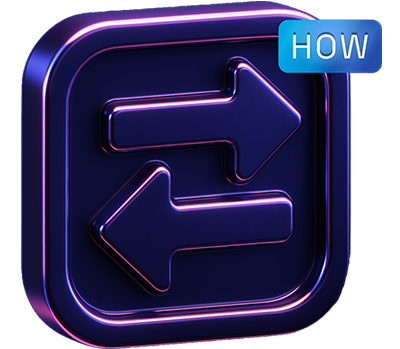
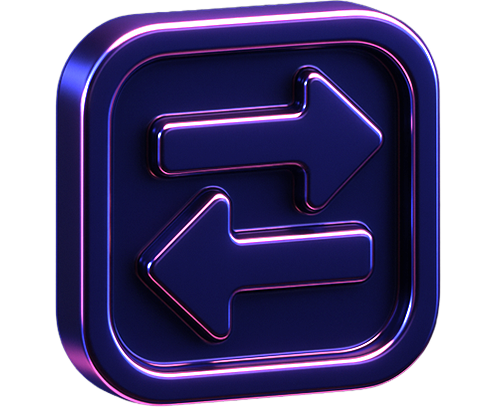
[e.cash] Improve what we do section images
Summary:
On the homepage, in the second section (+what we do}. The images have a little blue tag with a word over them. The tag was part of the image but this was causing some crunchiness on the text, and some mis-alignment between them.

Opting to instead create the tag with css so they can be vertically aligned, and the text will be more clear.

before
{F18181817}
after
{F18181816}

Test Plan: preview and check

Reviewers: #bitcoin_abc, bytesofman

Reviewed By: #bitcoin_abc, bytesofman

Subscribers: bytesofman

Differential Revision: https://reviews.bitcoinabc.org/D18649

diff --git a/web/e.cash_v2/app/components/Home/WhatWeDo.tsx b/web/e.cash_v2/app/components/Home/WhatWeDo.tsx
@@ -8,6 +8,7 @@ import Image from "next/image";
 import PlusHeader from "../Atoms/PlusHeader";
 import { motion } from "framer-motion";
 import Button from "../Atoms/Button";
+import { cn } from "../../utils/cn";
 
 export default function WhatWeDo() {
   type CardProps = {
@@ -15,8 +16,9 @@ export default function WhatWeDo() {
     image: string;
     href: string;
     buttonText: string;
+    imageText: string;
   };
-  const Card = ({ text, image, href, buttonText }: CardProps) => {
+  const Card = ({ text, image, href, buttonText, imageText }: CardProps) => {
     return (
       <div className="relative flex w-full self-stretch overflow-hidden rounded-lg border border-white/10 lg:flex-col">
         <div className="to-background from-background relative flex w-1/3 items-center self-stretch bg-gradient-to-br via-[#101026] p-4 lg:w-full lg:p-10">
@@ -28,6 +30,14 @@ export default function WhatWeDo() {
               className="object-contain"
               sizes="(max-width: 1024px) 33vw, 160px"
             />
+            <div
+              className={cn(
+                "from-accentLight to-accentDark absolute left-1/2 top-0 ml-10 flex -translate-x-1/2 items-center rounded bg-gradient-to-b px-1 py-0.5 text-[10px] tracking-wider [text-shadow:_0px_-1px_0px_rgb(0_0_0_/_0.36)] lg:left-auto lg:translate-x-0 lg:px-2 lg:text-sm",
+                imageText === "HOW" ? "lg:right-4" : "lg:right-0"
+              )}
+            >
+              {imageText}
+            </div>
           </div>
         </div>
         <div className="border-t-white/14 w-2/3 p-6 lg:w-full lg:border-t">
@@ -77,12 +87,14 @@ export default function WhatWeDo() {
             image="/how.png"
             href="/roadmap"
             buttonText="Our Vision"
+            imageText="HOW"
           />
           <Card
             text="With The Internet's Native Currency"
             image="/vision.png"
             href="/tech"
             buttonText="Our Tech"
+            imageText="VISION"
           />
         </div>
       </motion.div>